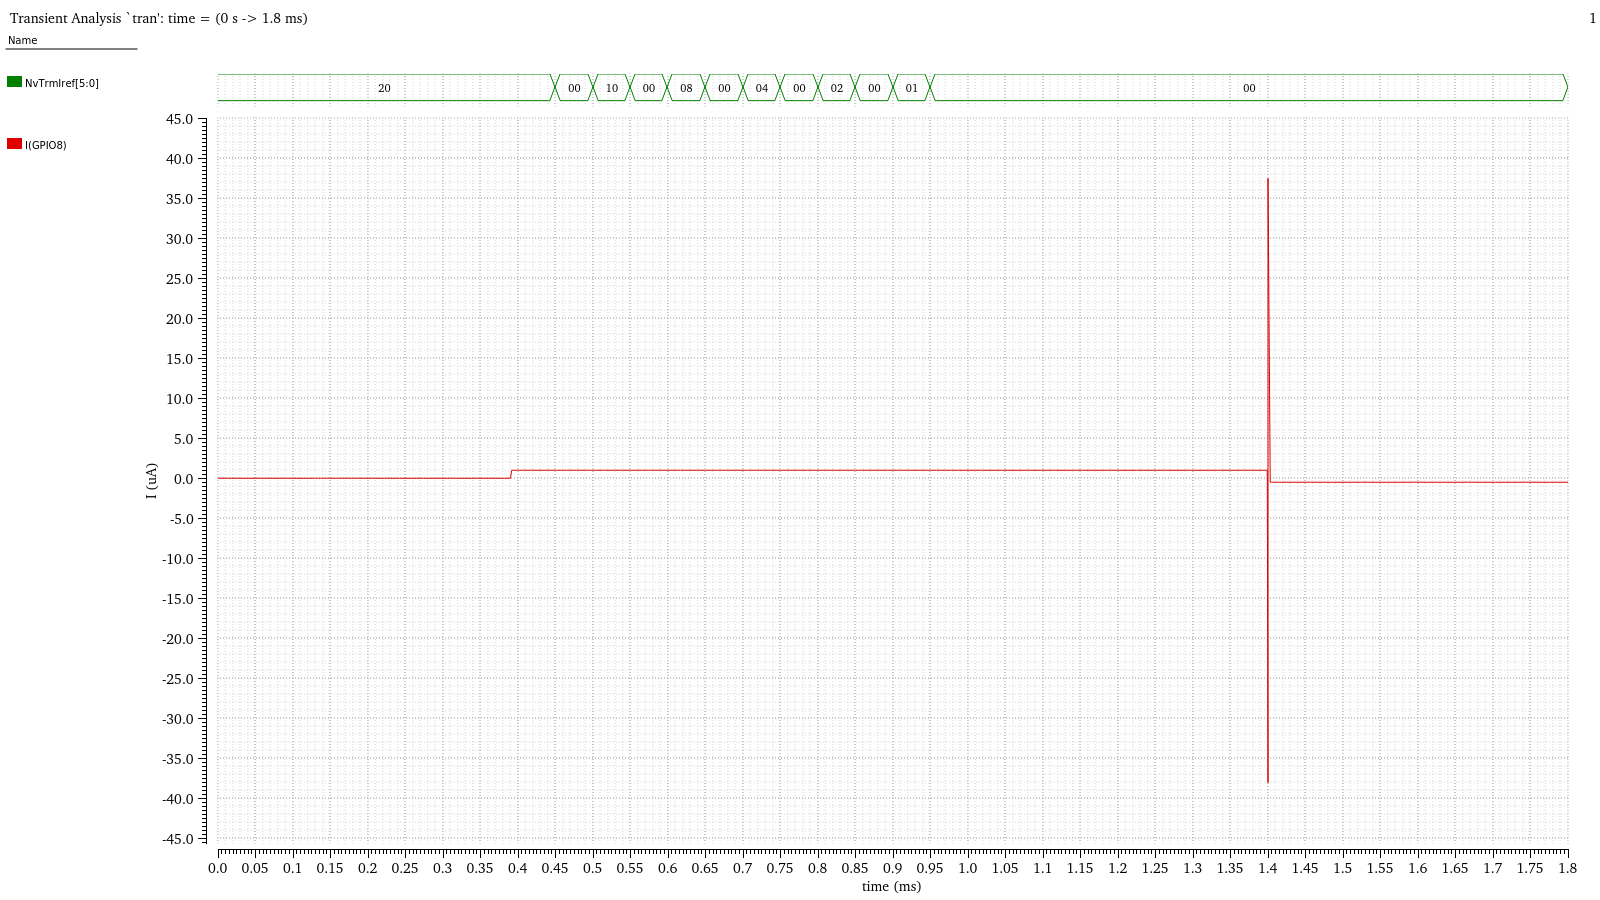
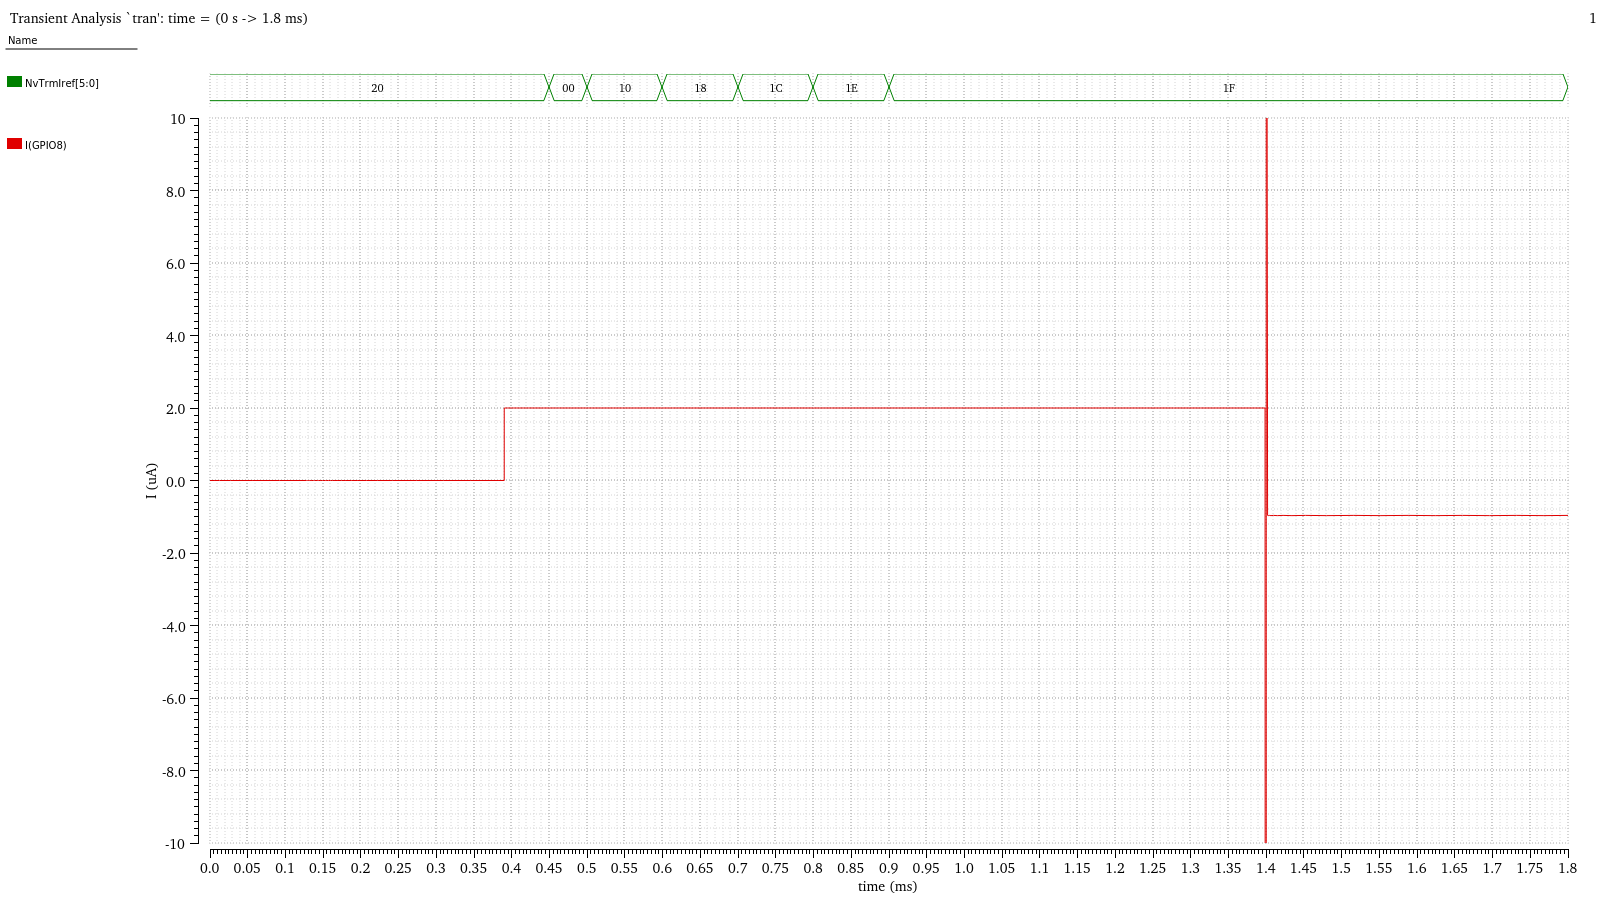
Support yAxis range limits, step division (2uA), and clean desktop viewer invocation

diff --git a/BVU025_Lary/sim_TOP_cosim_python_A1/run_cosim.py b/BVU025_Lary/sim_TOP_cosim_python_A1/run_cosim.py
@@ -385,7 +385,32 @@ exit()
         res   = img_settings.get("resolution", 100)
         bg    = img_settings.get("backgroundColor", "white")
 
-        tc = self.top_cell  # e.g. "sim_TOP_cosim_python_A1_ocean"
+        # Parse custom yAxis ranges and step values from wave_cfg
+        y_limit_stmts = []
+        plot_list = wave_cfg.get("plot", [])
+        for p in plot_list:
+            for res_item in p.get("results", []):
+                for sig_info in res_item.get("signals", []):
+                    strip_num = sig_info.get("stripNumber", 1)
+                    y_axis = sig_info.get("yAxis", {})
+                    y_min = y_axis.get("min")
+                    y_max = y_axis.get("max")
+                    y_step = y_axis.get("step")
+                    if y_min is not None and y_max is not None:
+                        y_limit_stmts.append(f"yLimit(list({y_min} {y_max}) ?stripNumber {strip_num})")
+                        y_limit_stmts.append(f"awvSetYLimit(win 1 list({y_min} {y_max}) ?stripNumber {strip_num})")
+                    if y_step is not None:
+                        y_limit_stmts.append(f"awvSetYAxisUseStepValue(win 1 t ?stripNumber {strip_num})")
+                        y_limit_stmts.append(f"awvSetYAxisStepValue(win 1 {y_step} ?stripNumber {strip_num})")
+                        if y_min is not None and y_max is not None:
+                            try:
+                                num_div = int(round((float(y_max) - float(y_min)) / float(y_step)))
+                                y_limit_stmts.append(f"awvSetYAxisMajorDivisions(win 1 {num_div} ?stripNumber {strip_num})")
+                            except Exception:
+                                pass
+
+        y_limits_code = "\n".join(y_limit_stmts)
+        tc = self.top_cell
 
         ocn_code = f"""
 load("/home/lary/skill/bvViva_modules.il")
@@ -434,6 +459,9 @@ win = newWindow()
 if(bus_sig plot(bus_sig ?expr "NvTrmIref[5:0]" ?strip 1))
 if(i_gpio plot(i_gpio ?expr "I(GPIO8)" ?strip 2))
 
+// Apply Y-axis range limits from configuration
+{y_limits_code}
+
 saveGraphImage(?window win ?fileName "{img_file}" ?resolution {res} ?width {width} ?height {height} ?backgroundColor "{bg}" ?saveAllSubwindows t)
 printf("SUCCESS_AUTO_WAVE\\n")
 exit()
@@ -468,9 +496,24 @@ exit()
             print(f"[OneTest Sim] Launching Image Viewer for: {img_path}...")
             try:
                 if sys.platform.startswith("linux"):
-                    disp = os.environ.get("DISPLAY", ":0")
-                    cmd = f"DISPLAY={disp} nohup eog '{img_path}' >/dev/null 2>&1 &"
-                    subprocess.Popen(cmd, shell=True)
+                    clean_env = {
+                        "DISPLAY": ":0",
+                        "DBUS_SESSION_BUS_ADDRESS": "unix:path=/run/user/1000/bus",
+                        "XAUTHORITY": "/home/lary/.Xauthority",
+                        "HOME": "/home/lary",
+                        "PATH": "/usr/bin:/bin"
+                    }
+                    try:
+                        subprocess.run(["killall", "-q", "eog"], env=clean_env, stdout=subprocess.DEVNULL, stderr=subprocess.DEVNULL)
+                    except Exception:
+                        pass
+                    subprocess.Popen(
+                        ["/usr/bin/eog", img_path],
+                        env=clean_env,
+                        start_new_session=True,
+                        stdout=subprocess.DEVNULL,
+                        stderr=subprocess.DEVNULL
+                    )
                 elif sys.platform.startswith("win"):
                     os.startfile(img_path)
                 elif sys.platform == "darwin":
@@ -545,7 +588,6 @@ exit()
                         if img_path:
                             item_report["waveform_image"] = "images/cosim_waveform.png"
                             item_report["image_path"] = img_path
-                            self.open_image(img_path)
                         item_report["viva_command"] = f"viva -mode xl -results {os.path.join(self.work_dir, 'psf')}"
                         psf_exists = os.path.exists(os.path.join(self.work_dir, "psf")) or os.path.exists(os.path.join(self.work_dir, "ams", "config", "psf"))
                         item_report["status"] = "PASS" if psf_exists else "FAIL (NO_PSF_DATABASE)"
@@ -614,6 +656,12 @@ exit()
         print(json.dumps(report, indent=4))
         print(f"=======================================================")
         print(f"[OneTest Sim] test_report.json generated successfully in {report_file}")
+
+        # Automatically pop up waveform image screenshot in default viewer
+        img_file = os.path.join(self.work_dir, "images", "cosim_waveform.png")
+        if os.path.exists(img_file):
+            self.open_image(img_file)
+
         return report
 
     def generate_fail_report(self, reason="Execution Failed"):
